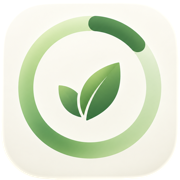
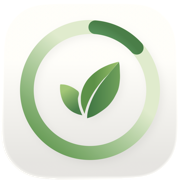
Actualiza el ícono de Fastitude en el portal y lo agranda
El ícono del portal (versión oscura) había quedado desactualizado con el
estilo de brillo neón anterior; ahora usa el mismo arte plano con
degradé que trae la app. También se agranda el ícono en la home
(56→84px) y en la página de Fastitude (58→92px) para que se lea mejor.

Claude-Session: https://claude.ai/code/session_017LtWTjsierb2D4NAucvtrx

diff --git a/assets/portal.css b/assets/portal.css
@@ -121,9 +121,9 @@ header.intro p {
 .product-card:focus-visible { outline: 2px solid var(--teal); outline-offset: 3px; }
 
 .product-card img {
-  width: 56px;
-  height: 56px;
-  border-radius: 14px;
+  width: 84px;
+  height: 84px;
+  border-radius: 19px;
   display: block;
   margin-bottom: 14px;
 }

diff --git a/fastitude/assets/site.css b/fastitude/assets/site.css
@@ -138,9 +138,9 @@ header.hero {
 }
 .hero-copy { max-width: 500px; }
 .icon {
-  width: 58px;
-  height: 58px;
-  border-radius: 15px;
+  width: 92px;
+  height: 92px;
+  border-radius: 21px;
   box-shadow: 0 8px 22px var(--border);
   margin-bottom: 30px;
   display: block;
